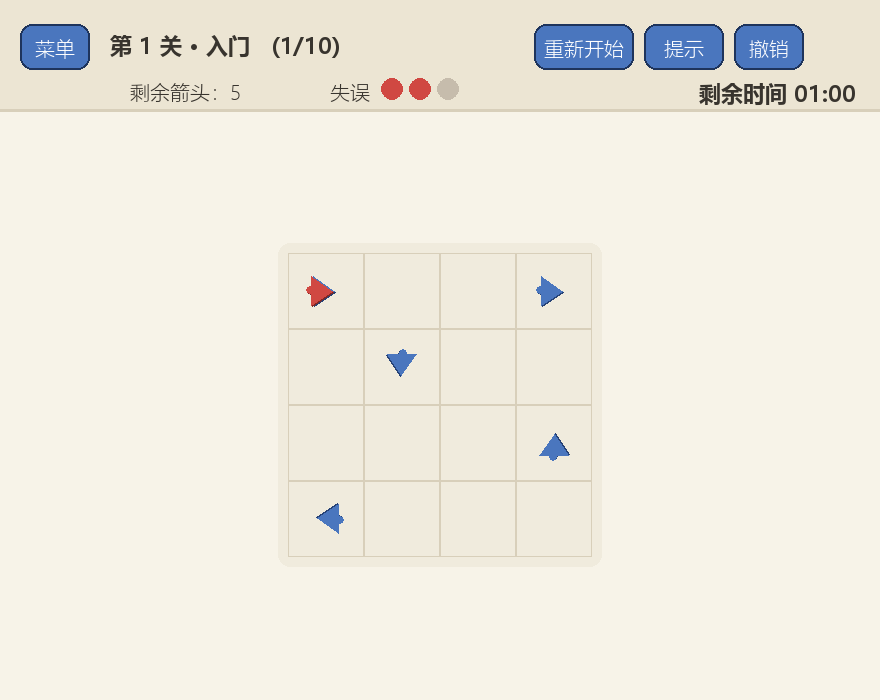
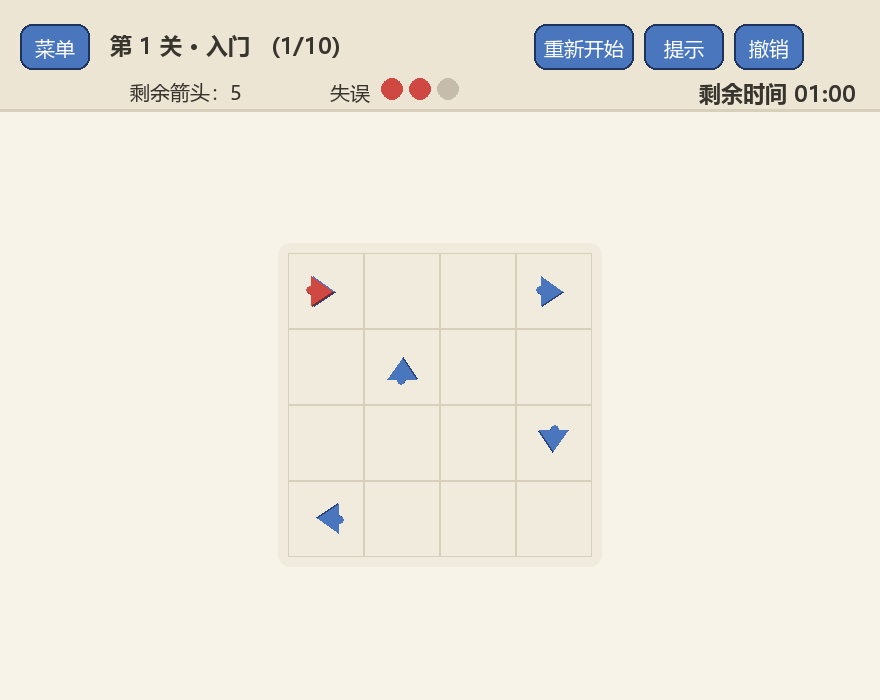
fix: 修正箭头上下方向显示错误

diff --git a/ui.py b/ui.py
@@ -88,7 +88,9 @@ def draw_arrow(surf, center, direction, size, color, dark, alpha=255):
     pygame.draw.polygon(tmp, dark, [(x + 1, y + 1) for x, y in head])
     pygame.draw.rect(tmp, color, tail, border_radius=size // 6)
     pygame.draw.polygon(tmp, color, head)
-    angle = {'>': 0, 'v': 90, '<': 180, '^': 270}[direction]
+    # pygame.transform.rotate 正角度为逆时针；基准图形朝右，故：
+    # 朝右=0°，朝上=90°，朝左=180°，朝下=270°
+    angle = {'>': 0, '^': 90, '<': 180, 'v': 270}[direction]
     if angle:
         tmp = pygame.transform.rotate(tmp, angle)
     tmp.set_alpha(alpha)
